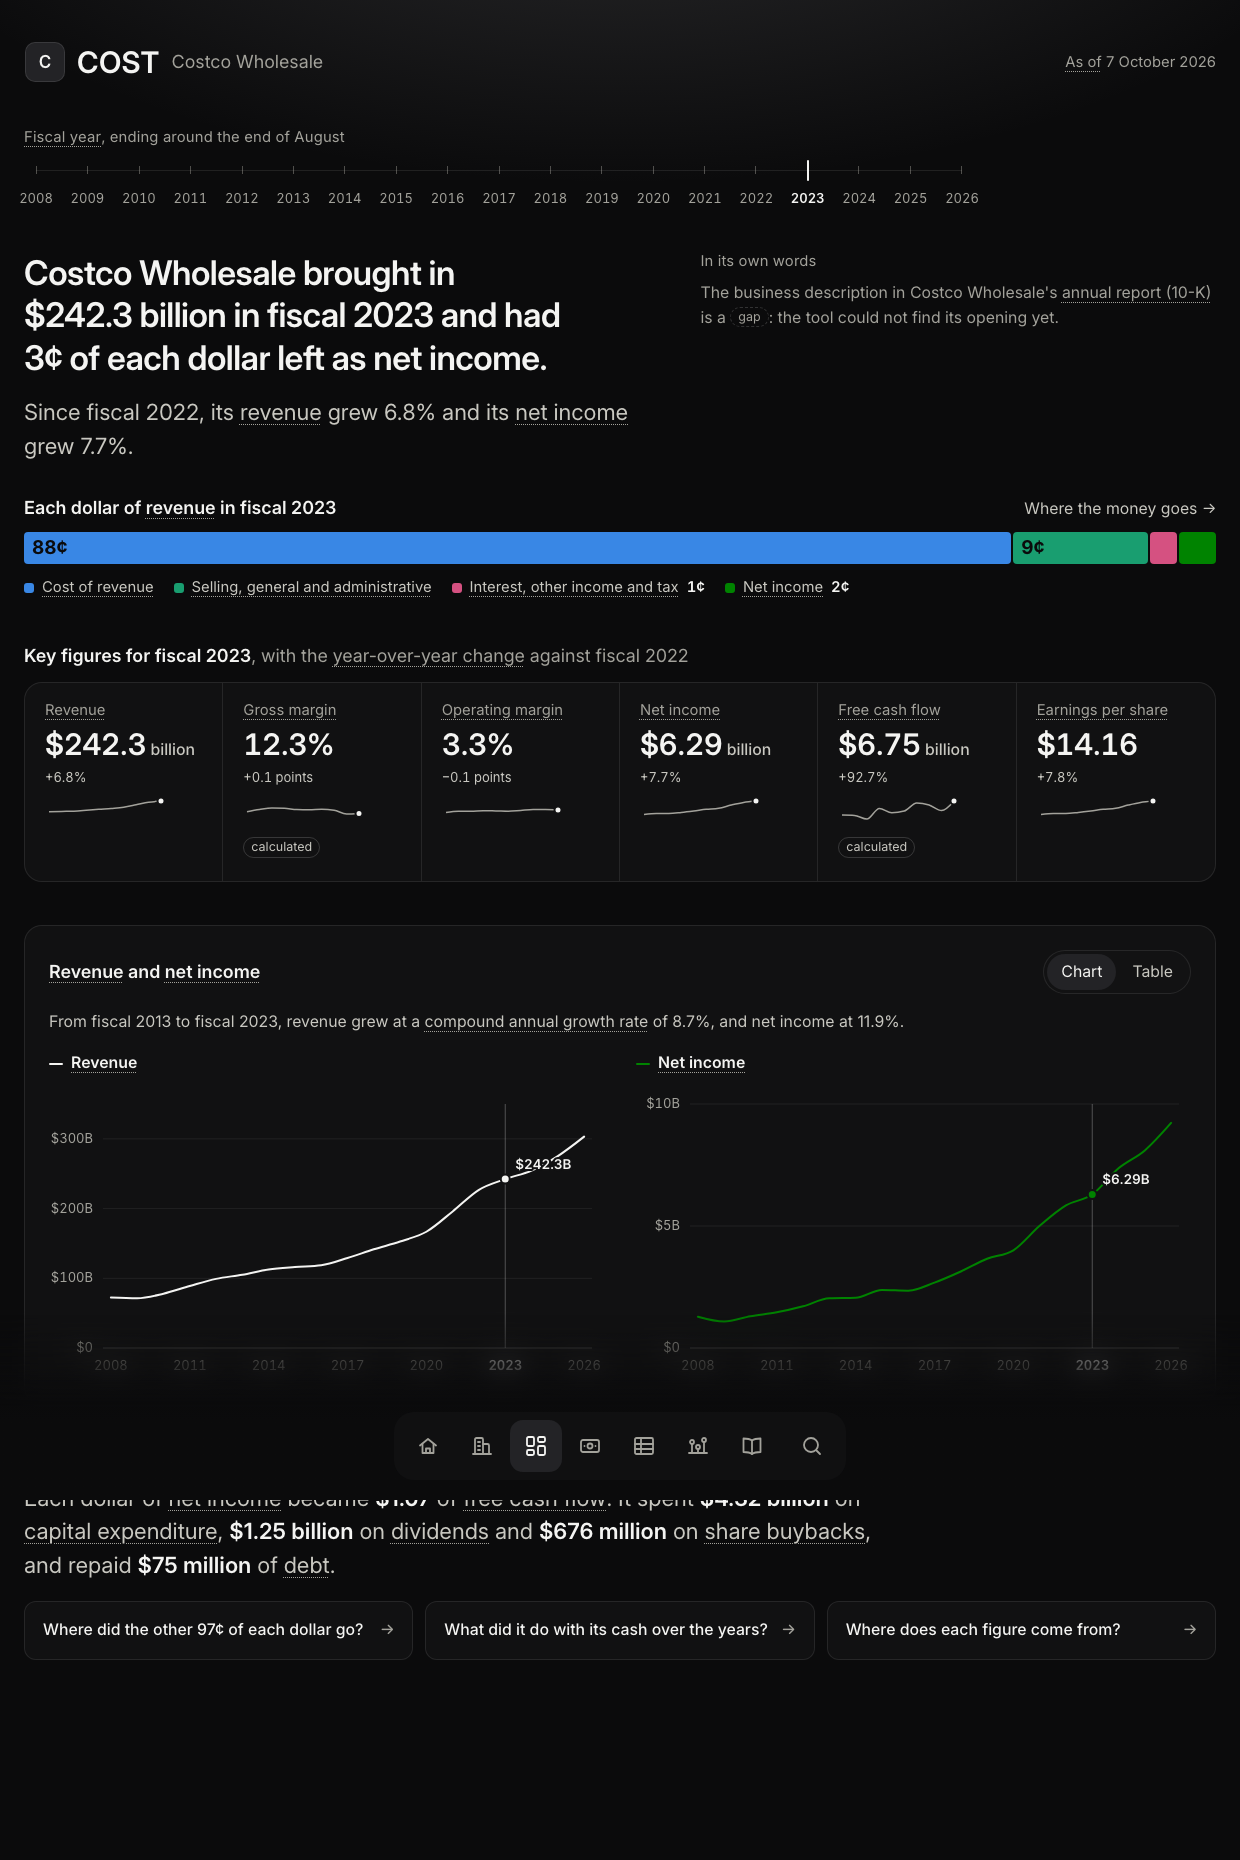
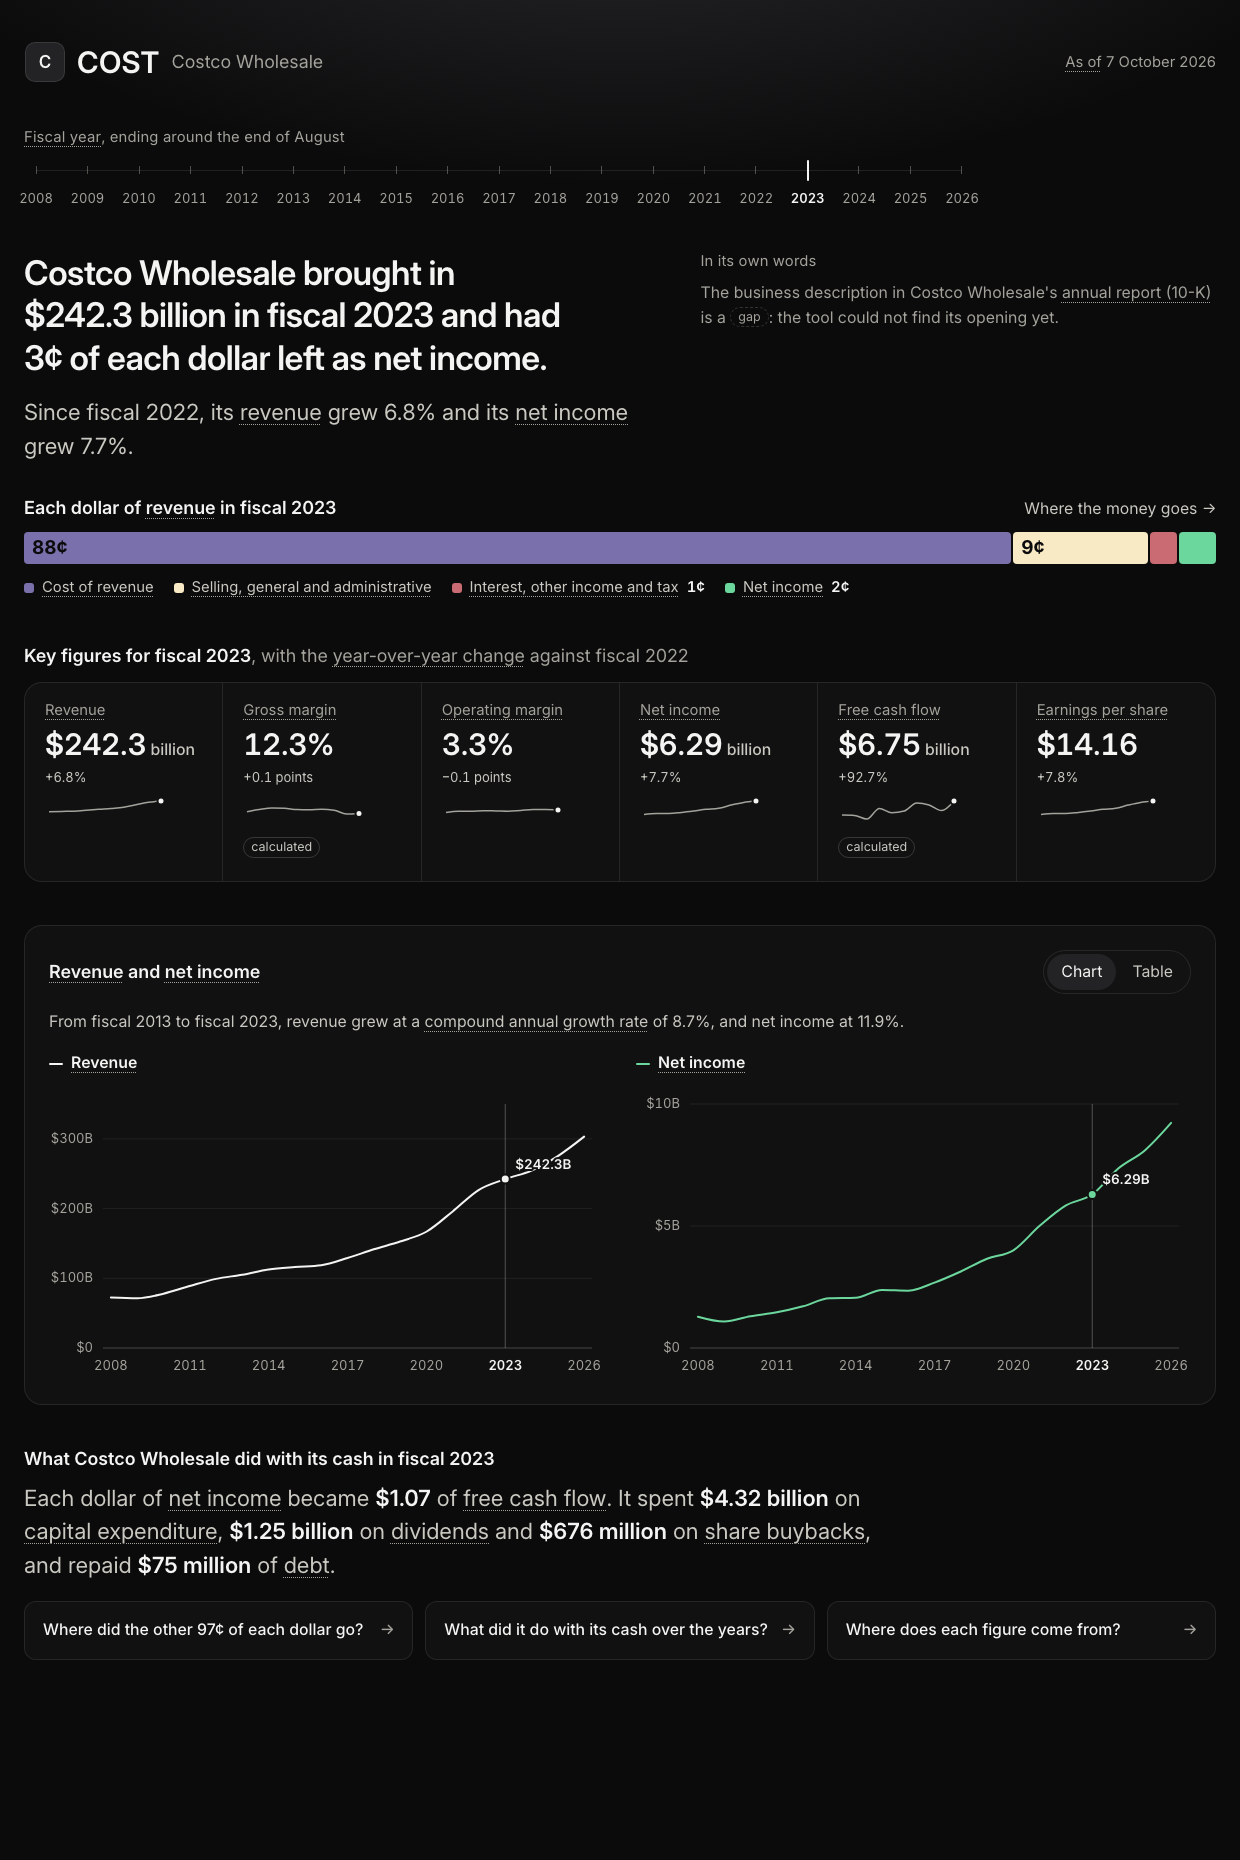
feat: soften the colours of each part of a dollar, with net income in the green of a rise and interest and tax in rose
The parts were saturated blue, orange, teal, pink and dark green, harsh as solid blocks and with two greens side by side. They are now soft lavender, peach, cream, rose and green, checked to stay apart for the three common kinds of colour blindness and at least 3:1 on the page. Text inside every part is now near-black.

Changed region(s): [[0.0, 0.2806, 0.9806, 0.3118], [0.0306, 0.7484, 0.4597, 0.8108], [0.5823, 0.7796, 0.6129, 0.8108]]

diff --git a/src/styles/tokens.css b/src/styles/tokens.css
@@ -13,23 +13,24 @@
   --color-text-3: #a3a29b;
   --color-transparent: transparent;
 
-  /* The six parts of a dollar of revenue, in the order the income statement
-     reads. Checked as a set for colour blindness and for 3:1 on surface-0. */
-  --color-part-cost: #3987e5;
-  --color-part-research: #d95926;
-  --color-part-selling: #199e70;
-  --color-part-other: #c98500;
-  --color-part-below: #d55181;
-  --color-part-kept: #008300;
-  --color-part-interest: #a08ae6;
+  /* The parts of a dollar of revenue, in the order the income statement
+     reads. Soft colours, with green for what was kept, the same green as a
+     rise, and rose for interest and tax. Checked as a set for the three
+     common kinds of colour blindness and for 3:1 on surface-0. */
+  --color-part-cost: #7a71ac;
+  --color-part-research: #d0975f;
+  --color-part-selling: #f9eac6;
+  --color-part-other: #836145;
+  --color-part-below: #ca6b74;
+  --color-part-kept: #6cd79d;
+  --color-part-interest: #6ba9bd;
 
   --color-delta-up: #6fd39b;
   --color-delta-down: #f08a6c;
 
-  /* Text set inside a part of a dollar: near-black on the five lighter
-     parts, white on net income's darker green. */
+  /* Text set inside a part of a dollar: near-black on every part. */
   --color-text-on-part: #0b0b0c;
-  --color-text-on-kept: #ffffff;
+  --color-text-on-kept: #0b0b0c;
 
   /* The quiet lines of a chart: grid, baseline at zero, the chosen year
      and the year under the pointer. */
